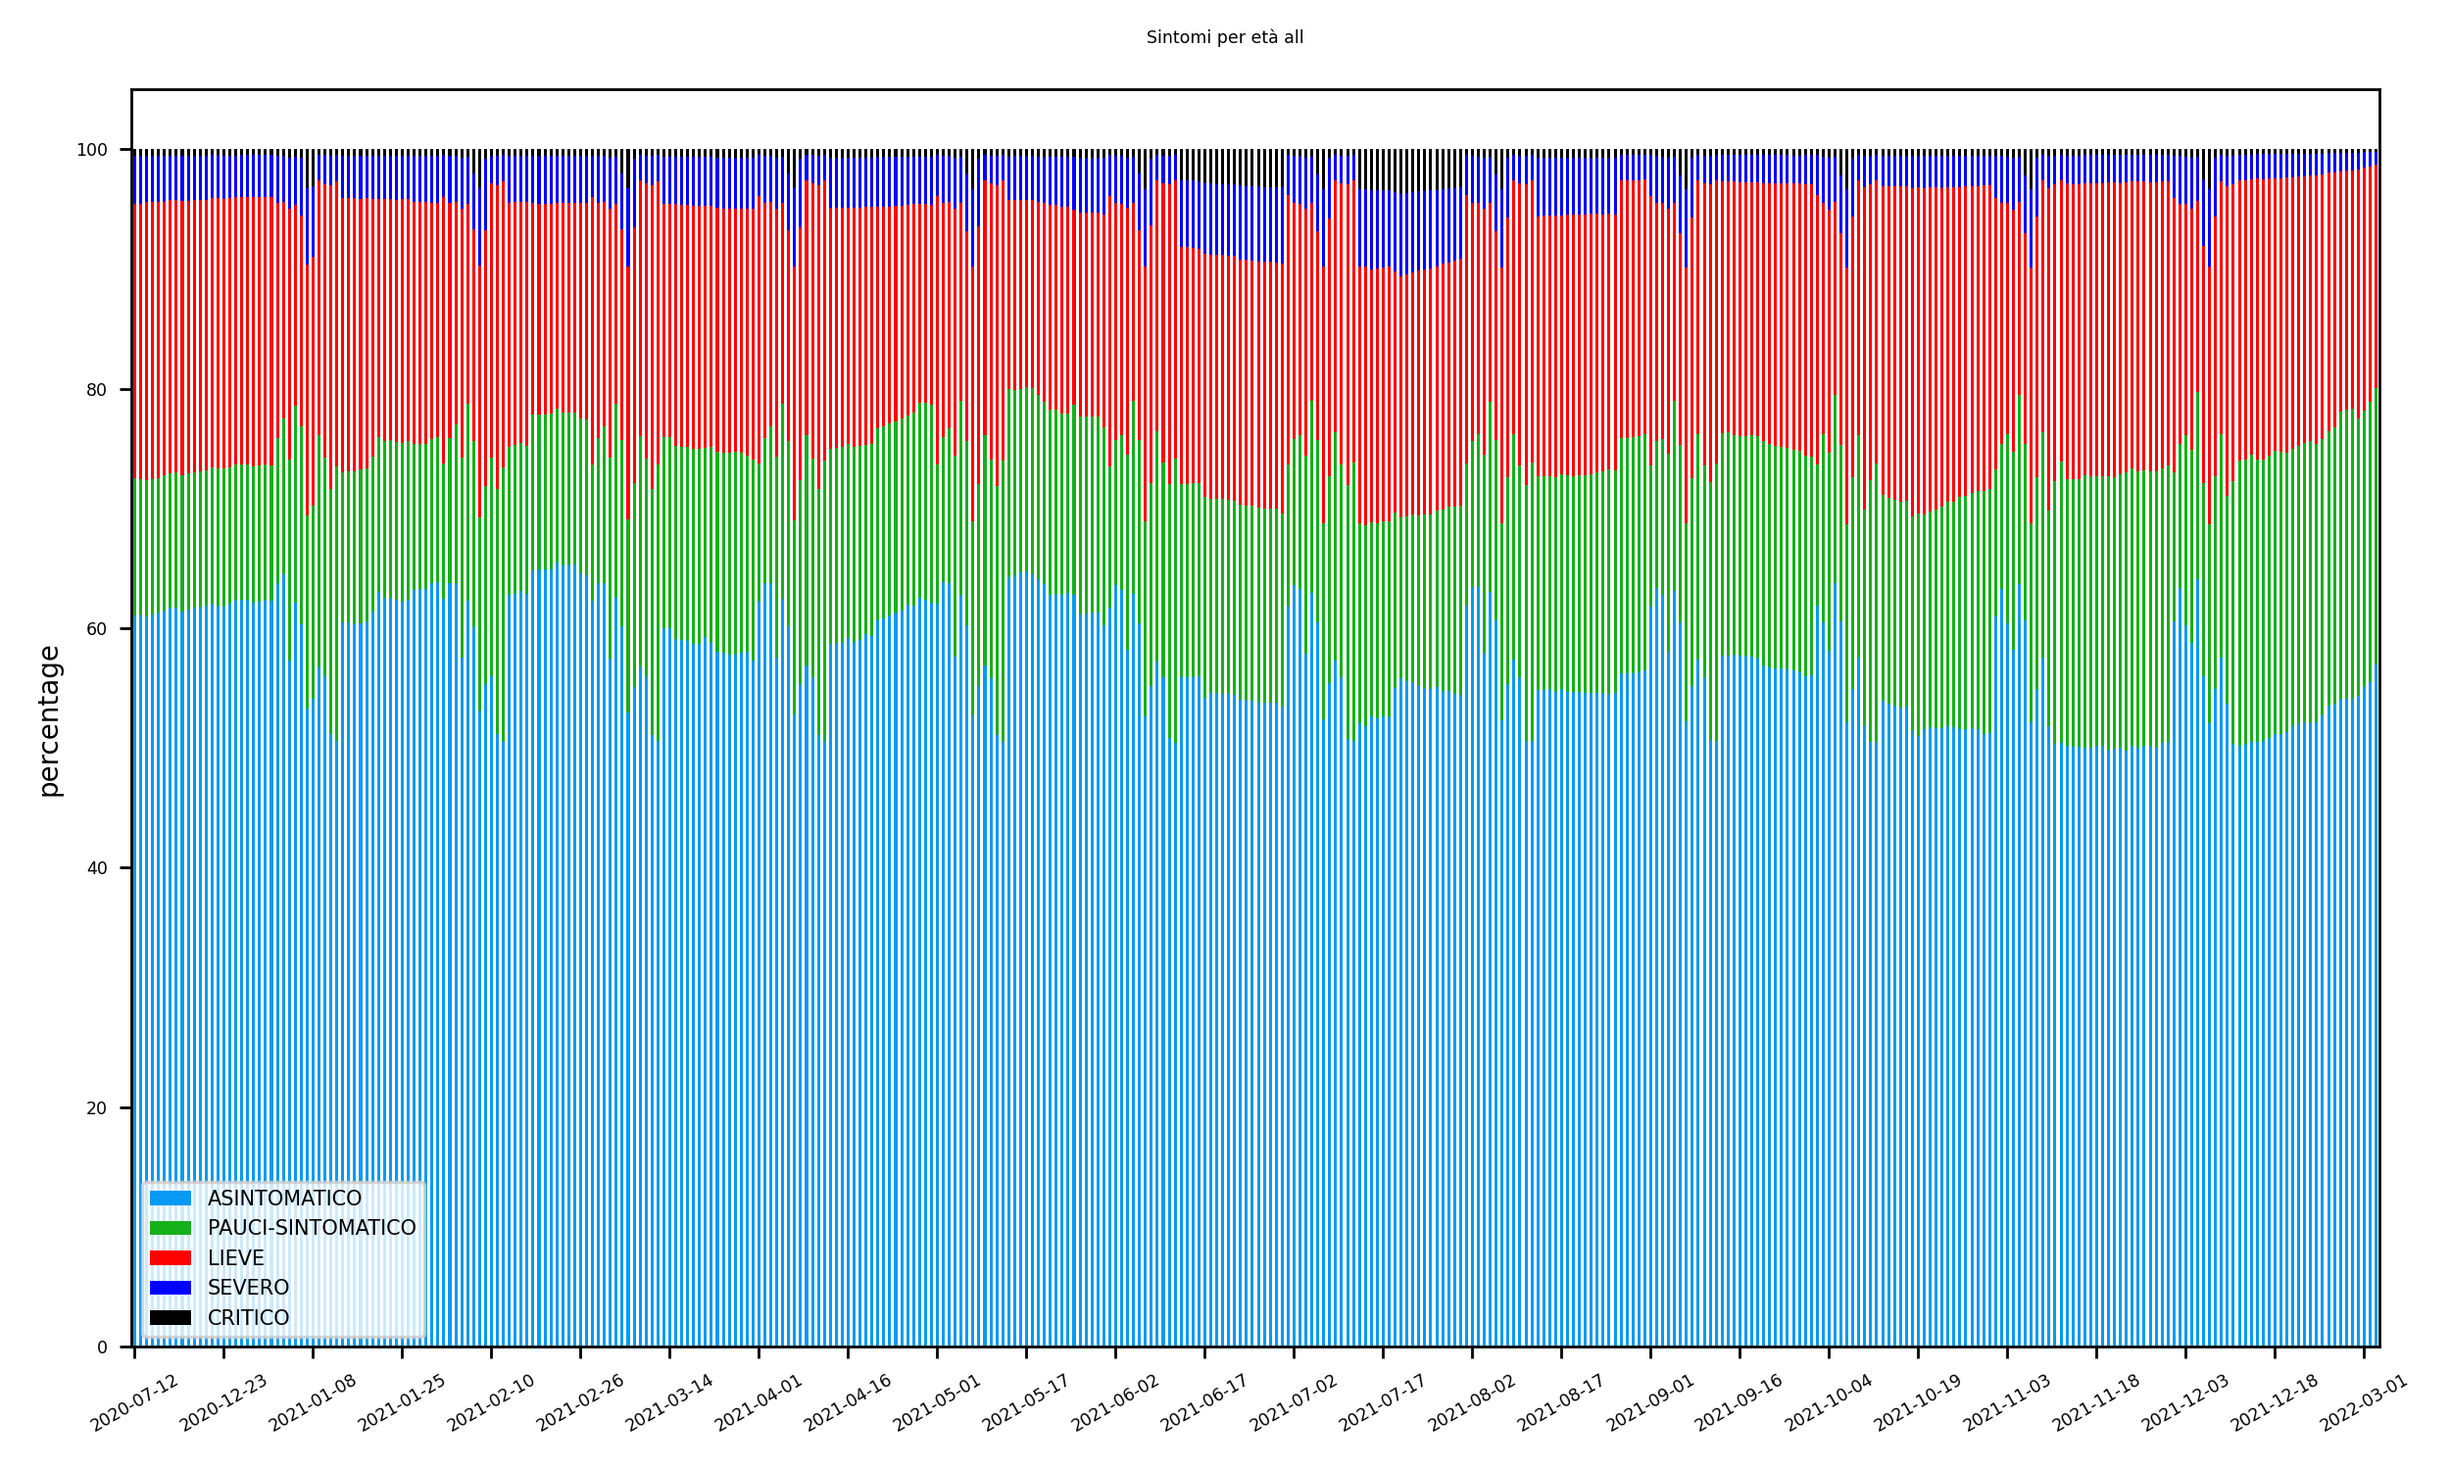
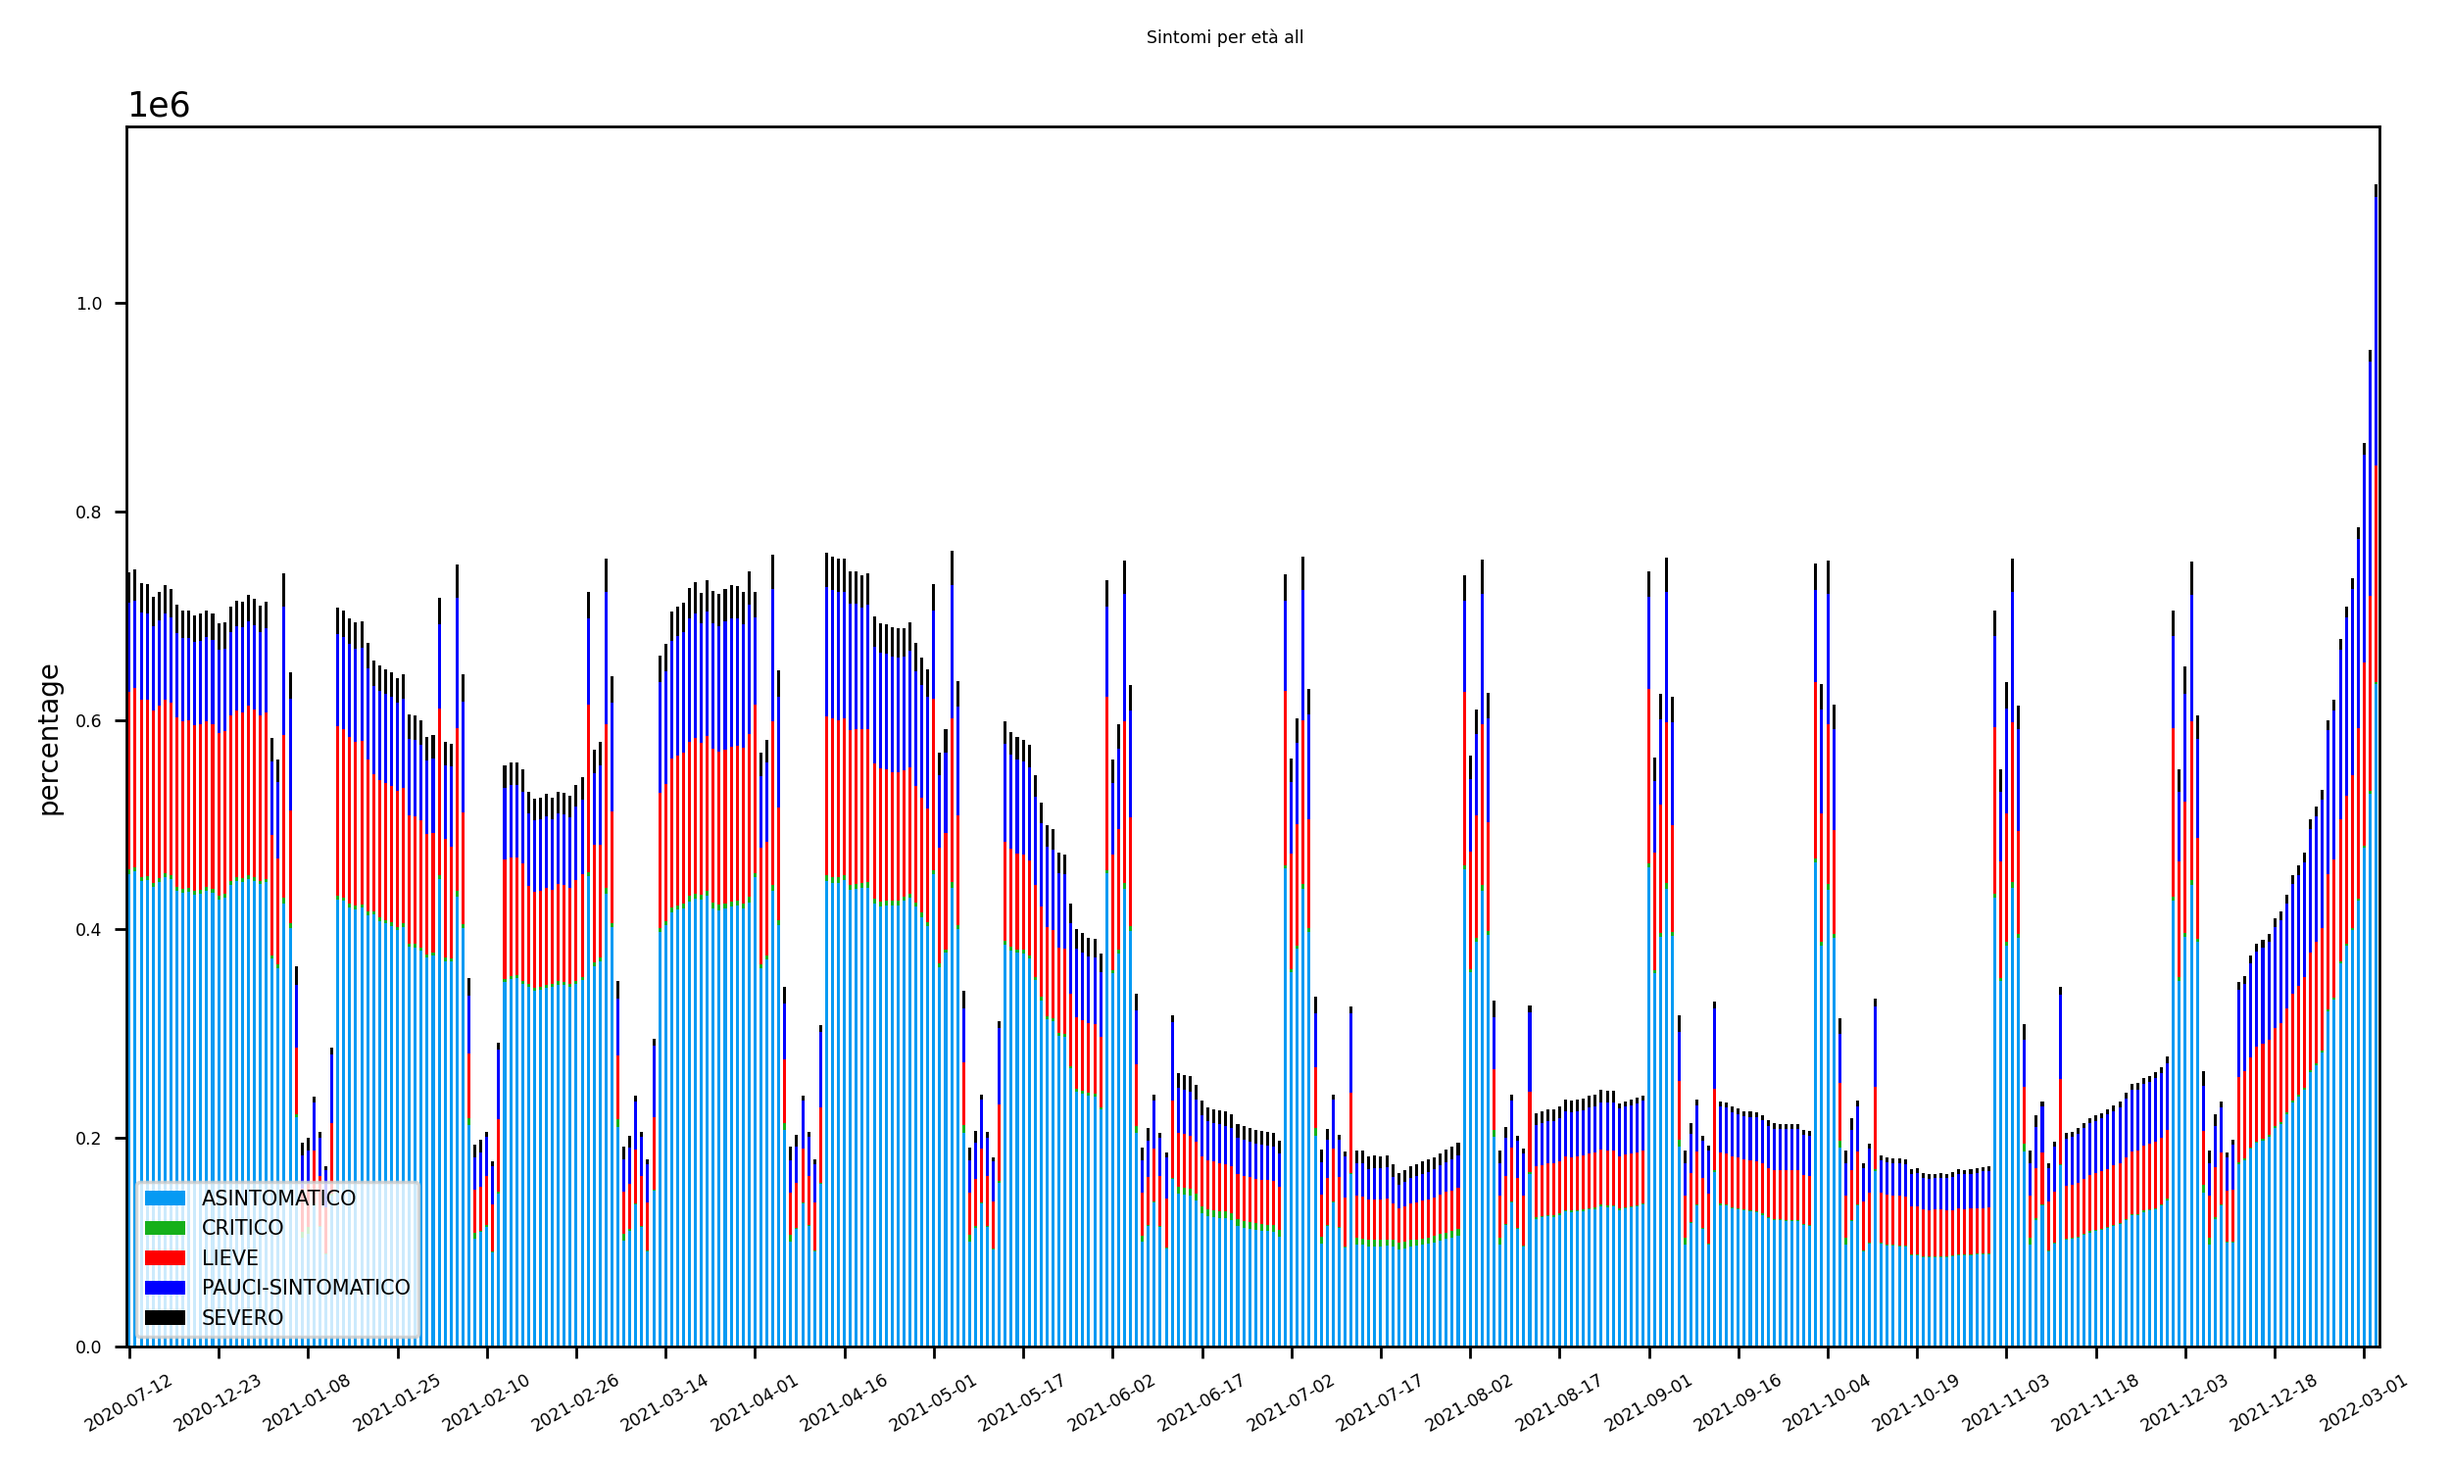
fix sintomi sintomi_all.png

diff --git a/sintomi/sintomi.py b/sintomi/sintomi.py
@@ -34,7 +34,7 @@ all_data['CASI'] = all_data['CASI'].astype(int)
 all_data['iss_date'] = pd.to_datetime(all_data['iss_date']).dt.date
 
 ages = ['10-19', '20-29', '30-39', '40-49', '50-59', '60-69', '70-79', '80-89', '>90', 'Non noto']
-ages = ['all']
+#ages = ['all']
 
 all_dates = pd.DataFrame(all_data['iss_date'].unique(), columns=['_data'])
 stati = pd.DataFrame(all_data['STATO_CLINICO'].unique(), columns=['_stato'])
